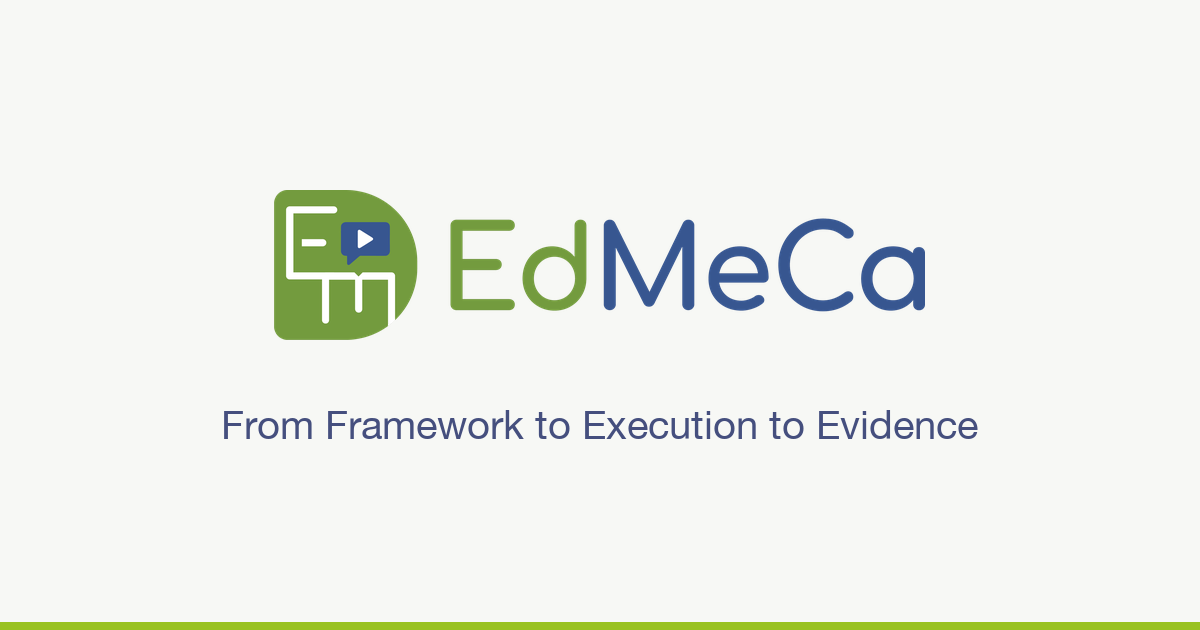
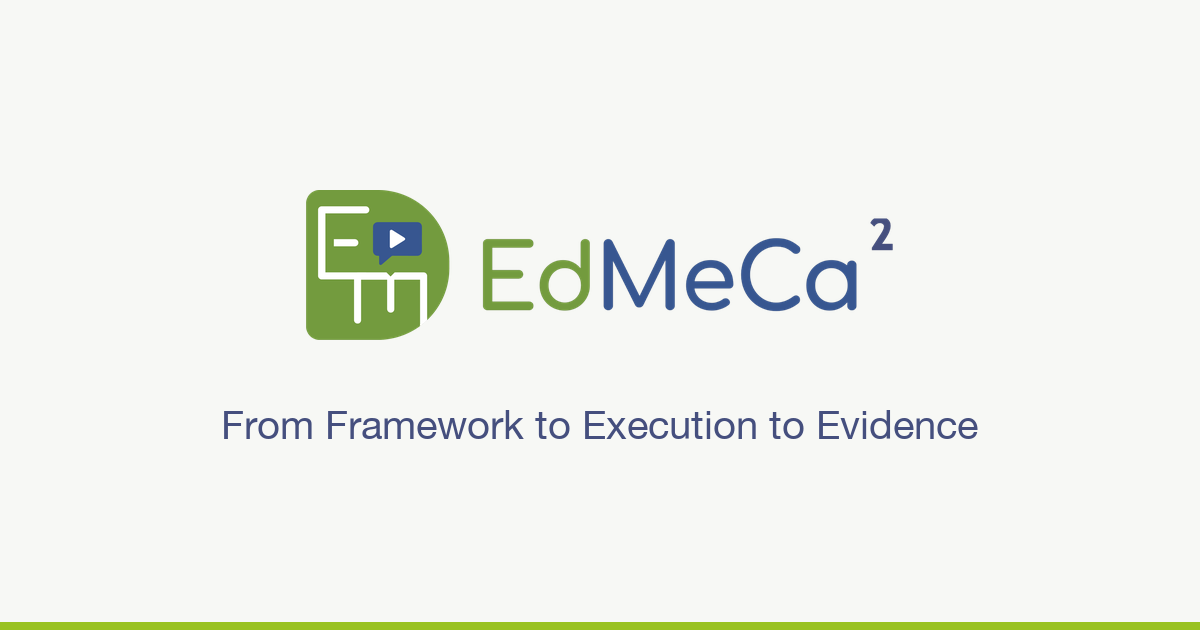
Phase 2 (revised): use the EdMeCa squared lockup
Swaps the site logo and OG image to brand/assets/edmeca-logo.png, the
lockup with the superscript 2 and without the Online Academy line.

Changed region(s): [[0.2158, 0.3016, 0.7708, 0.5429]]

diff --git a/docs/WEBSITE_REFRESH_CONTEXT.md b/docs/WEBSITE_REFRESH_CONTEXT.md
@@ -55,7 +55,7 @@ Non-gating, still open (answer any time):
 - Phase 1, ink-10: the plan table gives `227 13% 14%`, the brand file gives `#2A2B30` (`230 7% 18%`). The brand book wins on visuals, so `--accent-foreground` uses `#2A2B30`. It still passes AA on brand green.
 - Phase 1, shared tokens: `:root` is shared with the portal, so the portal's light theme also moves from navy and orange to the brand palette. The `.dark` block and the `.diagnostic-page` overrides are untouched.
 - Phase 1, Lighthouse CI was not run locally (no `lhci` in the project dependencies); it runs in Phase 10. The diagnostic routes (`/ai-map`, `/ai-readiness`, `/execution-gap`) keep their own colours; only the serif class changed in `AIReadiness.tsx`.
-- Phase 2, which lockup (please confirm): `brand/assets/edmeca-logo.png` still carries the superscript 2, which the plan's audit (Section 2.2) lists as part of the old lockup; `edmeca-logo-full.png` has neither the superscript nor the Online Academy line. The site now uses `edmeca-logo-full.png`. Swap the source file and rerun the resize if the superscript version is the approved one.
+- Phase 2, which lockup (settled by Raymond, 3 November 2026): the site uses the EdMeCa squared lockup, `brand/assets/edmeca-logo.png` (superscript 2, no Online Academy line). The first Phase 2 commit used `edmeca-logo-full.png`; a follow-up commit swapped it and regenerated the OG image.
 - Phase 2, shared logo file: `attached_assets/logo.png` (the `@assets/logo.png` import) was replaced in place, so the portal and the diagnostic pages also show the new lockup. Their size classes were not changed (out of scope); the trimmed lockup at their `h-12` reads larger than the old padded file did. Worth a look in the portal pass.
 - Phase 2, OG image tagline is set in Helvetica Neue (the brand body face; Inter is only its web substitute), rendered once to a PNG.
 
@@ -66,3 +66,4 @@ Non-gating, still open (answer any time):
 | 3 Nov 2026 | 0 | see git log | Baseline on `strategy-updates`: `npm ci`, `npm run check`, `npm test` (24 files, 297 tests) and `npm run build` pass. README renamed to EdMeCa and given the review-surface note. This file created. Baseline screenshots in `docs/refresh-screenshots/phase-0/`. |
 | 3 Nov 2026 | 1 | see git log | Tokens and type. `:root` mapped to the Section 3 table with hex comments; brand tokens, `--shadow-1` to `--shadow-3`, `--shadow-ring`, motion tokens and the `.eyebrow` / `.eyebrow-on-dark` utilities added; `.dark` untouched. Tailwind: `brand-*` and `ink-*` colours, `rounded-xl` 12 px and `rounded-2xl` 16 px, brand shadows, motion durations and easings; serif aliased to Inter. Button gains `cta` (green fill, ink-10 text) and `outline-brand` variants for Phase 3. `index.html`: Playfair removed, Inter 400 to 800, JetBrains Mono kept, theme-color `#454F7E`. Marketing pages: `font-serif` replaced, gradient washes and blur blobs removed (flat cream hero, sage CTA panels with hairline), navy bands now blue-deep with green eyebrows, Tailwind green, orange and traffic-light colours replaced with brand tokens. Copy unchanged. Network log: only Inter and JetBrains Mono requested. Screenshots in `docs/refresh-screenshots/phase-1/`. |
 | 3 Nov 2026 | 2 | see git log | Brand assets. `logo.png` (public and `attached_assets`) replaced with the lockup without the Online Academy line, trimmed and sized for web; `client/public/brand/` holds the logo, the D-mark, favicon 32 px, apple-touch-icon 180 px (on cream), icon 512 px and the 1200 by 630 OG image (cream, logo, tagline). `favicon.png` is now the D-mark. `index.html` references the new icons and adds `og:image` and Twitter card tags. Header logo 32 px tall in a 64 px bar and footer logo 40 px with 20 px padding, which keeps the 50 percent clear space. BMCTool alt text now "EdMeCa". Screenshots in `docs/refresh-screenshots/phase-2/`. |
+| 3 Nov 2026 | 2 (revised) | see git log | Logo and OG image regenerated from the EdMeCa squared lockup (`edmeca-logo.png`) at Raymond's instruction. |
